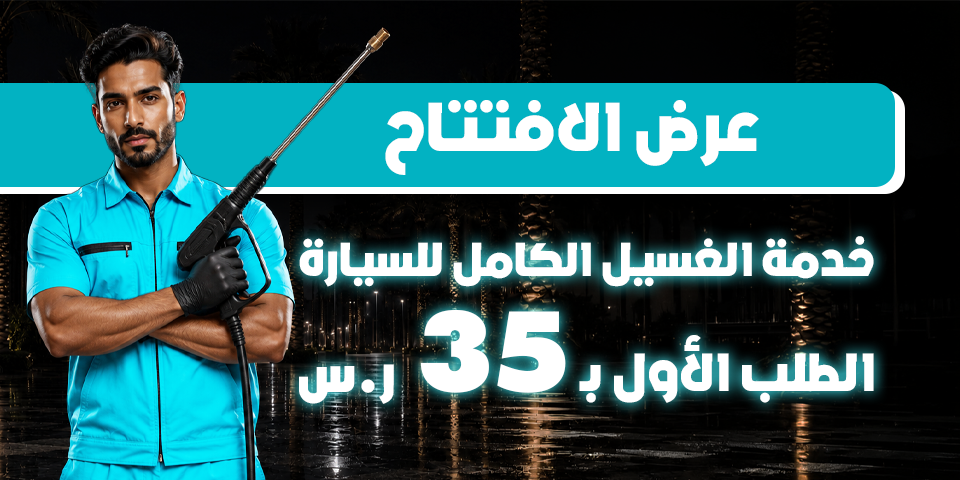
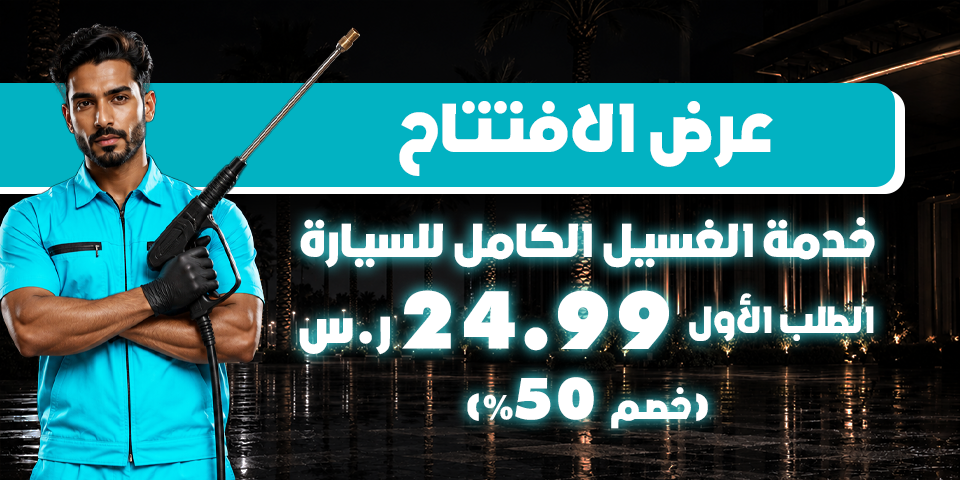
update onboarding background

diff --git a/lib/features/startup/views/onboarding_view.dart b/lib/features/startup/views/onboarding_view.dart
@@ -59,19 +59,24 @@ class _OnboardingViewState extends State<OnboardingView> {
       backgroundColor: darkAppColors.themeOpositeColor,
       body: Stack(
         children: [
-          Positioned(
-            top: 0,
-            left: 0,
-            right: 0,
-            child: SizedBox(
-              width: double.infinity,
-              child: Image.asset(
-                AppAssets.onboardingShadowTop,
-                fit: BoxFit.fill,
-              ),
-            ),
+          SizedBox(
+            width: double.infinity,
+            height: size.height * 0.7,
+            child: Image.asset(AppAssets.onboardingMainBg, fit: BoxFit.cover),
           ),
 
+          // Positioned(
+          //   top: 0,
+          //   left: 0,
+          //   right: 0,
+          //   child: SizedBox(
+          //     width: double.infinity,
+          //     child: Image.asset(
+          //       AppAssets.onboardingShadowTop,
+          //       fit: BoxFit.fill,
+          //     ),
+          //   ),
+          // ),
           Column(
             children: [
               SizedBox(height: MediaQuery.sizeOf(context).height * 0.2),
@@ -84,6 +89,7 @@ class _OnboardingViewState extends State<OnboardingView> {
 
           Positioned(
             top: MediaQuery.sizeOf(context).height * 0.12,
+            // top: MediaQuery.sizeOf(context).height * 0.2,
             left: 0,
             right: 0,
             height: MediaQuery.sizeOf(context).height * 0.40,

diff --git a/lib/core/utils/app_assets.dart b/lib/core/utils/app_assets.dart
@@ -47,6 +47,7 @@ abstract class AppAssets {
   static const String onboarding1 = 'assets/images/onboarding_1.png';
   static const String onboarding2 = 'assets/images/onboarding_2.png';
   static const String onboarding3 = 'assets/images/onboarding_3.png';
+  static const String onboardingMainBg = 'assets/images/onboarding_main.png';
   static const String onboardingShadowTop =
       'assets/images/onboarding_shadow_top.png';
   static const String onPOneIOneEn = 'assets/images/on_pOne_iOne_en.png';
